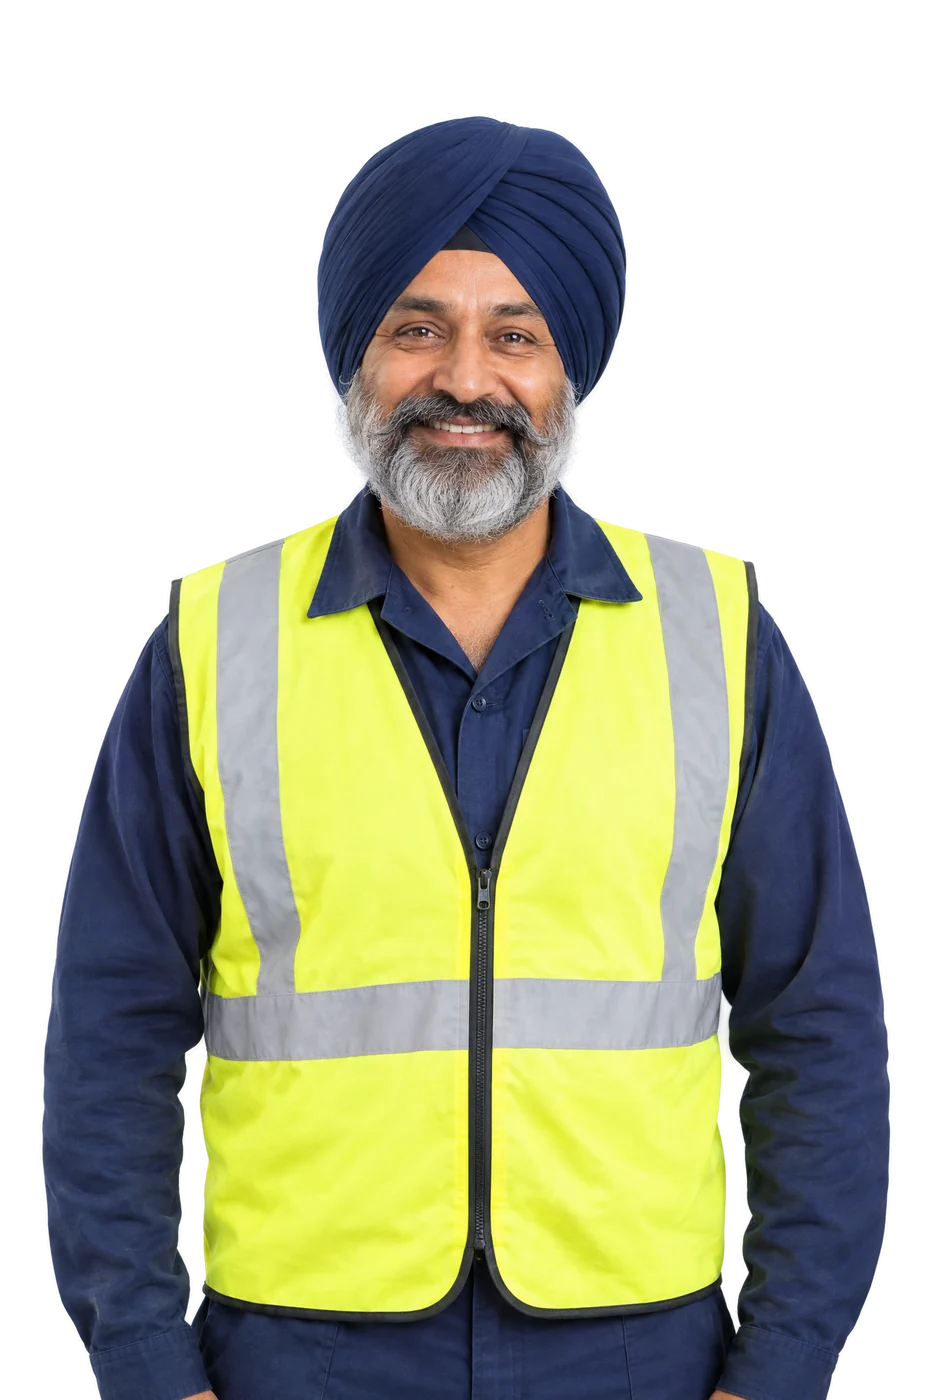
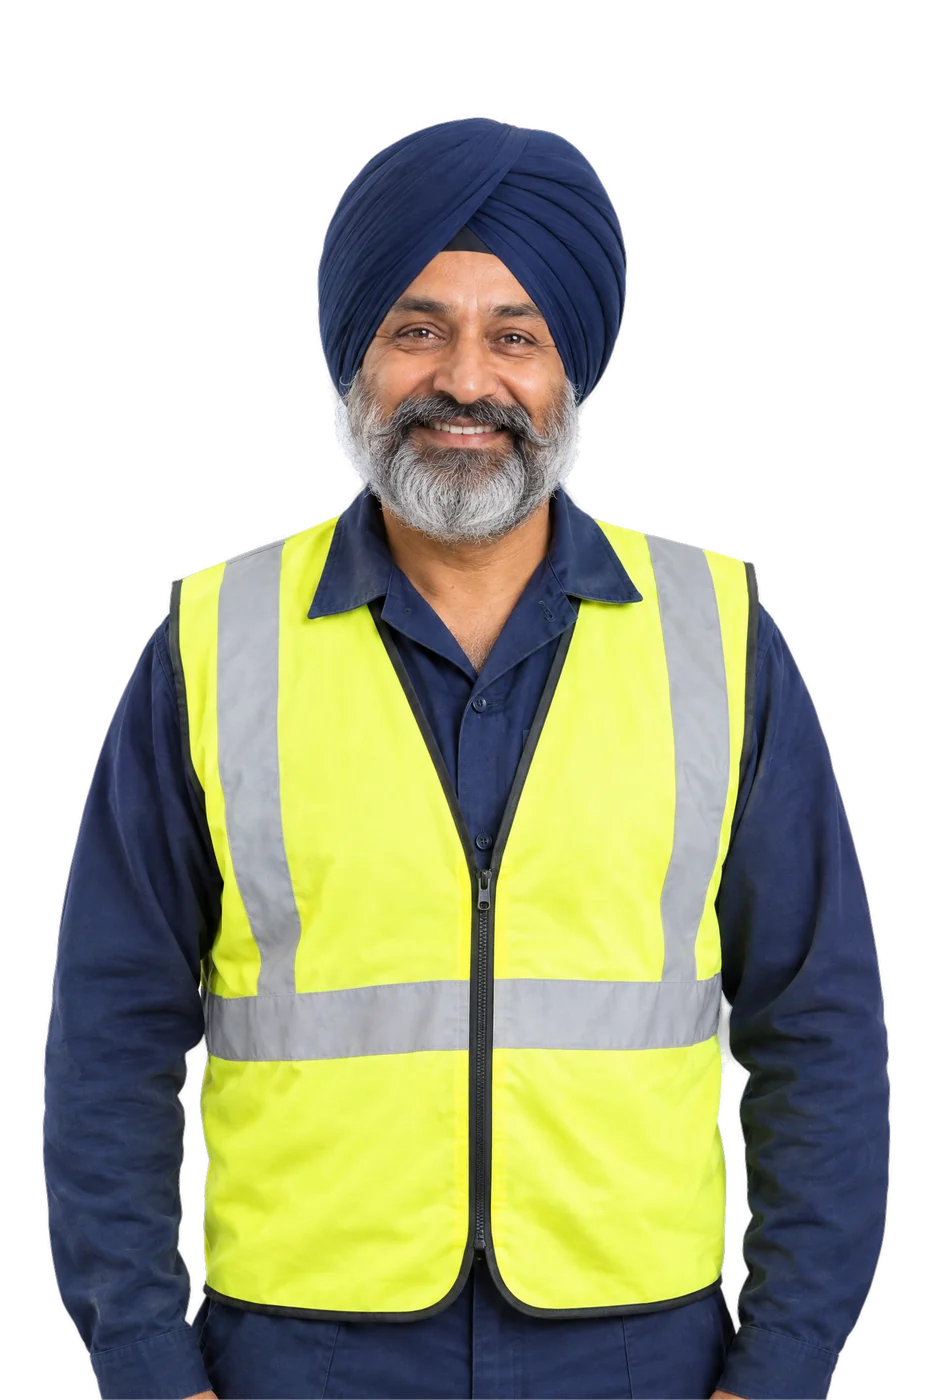
Cleaner cut-outs: edges un-mixed from the white backdrop
Every portrait's semi-transparent edge pixels still carried the white
studio backdrop, which showed as light marks against the red fabric. The
cut-out step now un-mixes the white from those pixels, softens the
outermost ring, and gives transparent pixels the colour of their nearest
neighbour so scaling never bleeds white. The energy engineer is re-cut with
the general segmentation model. Near-white edge pixels on her portrait
went from about two thousand to a few dozen.

Claude-Session: https://claude.ai/code/session_015YZmxSGLa3m1nMAWNcgxu4

diff --git a/scripts/people_hi_assets.py b/scripts/people_hi_assets.py
@@ -8,12 +8,31 @@ root = pathlib.Path(__file__).resolve().parent.parent
 src = root / 'media-src/people/hi'; out = root / 'impact/public/media/people'; out.mkdir(parents=True, exist_ok=True)
 sessions = {}
 # The human segmenter drops a white hard hat held against the white backdrop; the general model keeps it
-MODEL = {'p11-heat-engineer': 'isnet-general-use'}
+MODEL = {'p11-heat-engineer': 'isnet-general-use', 'p10-energy-manager': 'isnet-general-use'}
 def session_for(k):
     name = MODEL.get(k, 'u2net_human_seg')
     if name not in sessions: sessions[name] = new_session(name)
     return sessions[name]
 H = 1400; RATIO = 2 / 3; PAD = 0.03
+import numpy as np
+from scipy import ndimage
+def defringe(im):
+    """Semi-transparent edge pixels still carry the white backdrop mixed in; un-mix it, trim one pixel of rim,
+    and give fully transparent pixels the colour of their nearest opaque neighbour so scaling never bleeds white."""
+    arr = np.array(im).astype(np.float32); a = arr[..., 3] / 255.0; rgb = arr[..., :3]
+    semi = (a > 0.01) & (a < 0.995)
+    un = (rgb - (1 - a)[..., None] * 255.0) / np.maximum(a, 0.01)[..., None]
+    rgb[semi] = np.clip(un[semi], 0, 255)
+    solid = a > 0.5
+    eroded = ndimage.binary_erosion(solid, iterations=1)
+    rim = solid & ~eroded
+    a[rim] *= 0.55  # soften the outermost ring so no hard light edge survives
+    a = ndimage.gaussian_filter(a, 0.6)
+    opaque = a > 0.2
+    idx = ndimage.distance_transform_edt(~opaque, return_indices=True)[1]
+    rgb[~opaque] = rgb[idx[0][~opaque], idx[1][~opaque]]
+    arr[..., :3] = rgb; arr[..., 3] = np.clip(a * 255.0, 0, 255)
+    return Image.fromarray(arr.astype(np.uint8), 'RGBA')
 def load(p):
     raw = p.read_text(); end = max(raw.rfind(']'), raw.rfind('}')); d = json.loads(raw[:end + 1]); return d[0] if isinstance(d, list) else d
 items = []
@@ -21,6 +40,7 @@ for png in sorted(src.glob('p*.png')):
     k = png.stem
     im = Image.open(png).convert('RGBA')
     cut = remove(im, session=session_for(k), alpha_matting=True, alpha_matting_foreground_threshold=240, alpha_matting_background_threshold=10, alpha_matting_erode_size=8)
+    cut = defringe(cut)
     a = cut.getchannel('A'); bbox = a.point(lambda v: 255 if v > 12 else 0).getbbox()
     l, t, r, b = bbox; w, h = cut.size
     # keep the bottom edge (the frame's waist line) and give the figure a little air on the other sides
@@ -37,7 +57,7 @@ for png in sorted(src.glob('p*.png')):
         items.append({'key': f'people-{k}', 'generationId': d.get('id'), 'model': d.get('display_name', 'GPT Image 2.5'), 'jobType': d.get('job_type', 'gpt_image_2_5'), 'createdAt': d.get('created_at'),
                       'settings': {'aspect_ratio': '2:3', 'quality': 'high', 'resolution': '2k'}, 'promptFile': f'media-src/people/hi/{k}.txt', 'original': f'media-src/people/hi/{k}.png',
                       'web': f'impact/public/media/people/{k}.webp', 'resultUrl': d.get('result_url'), 'estimatedCredits': 2.75, 'status': 'selected',
-                      'processing': f'rembg {MODEL.get(k, "u2net_human_seg")} with alpha matting, trimmed to the figure, 2:3 canvas, 1400px WebP',
+                      'processing': f'rembg {MODEL.get(k, "u2net_human_seg")} with alpha matting, edge un-mixed from the white backdrop and bled into the transparent area, trimmed to the figure, 2:3 canvas, 1400px WebP',
                       'usage': 'Portrait in the people line on the People section of the site and prototypes/people.html, a stand-in for a real colleague from a shoot',
                       'provenance': 'AI generated with Higgsfield via the Higgsfield CLI on 25 October 2026. Not a real colleague.'})
 mp = root / 'media-src/asset-manifest.json'; m = json.loads(mp.read_text())
